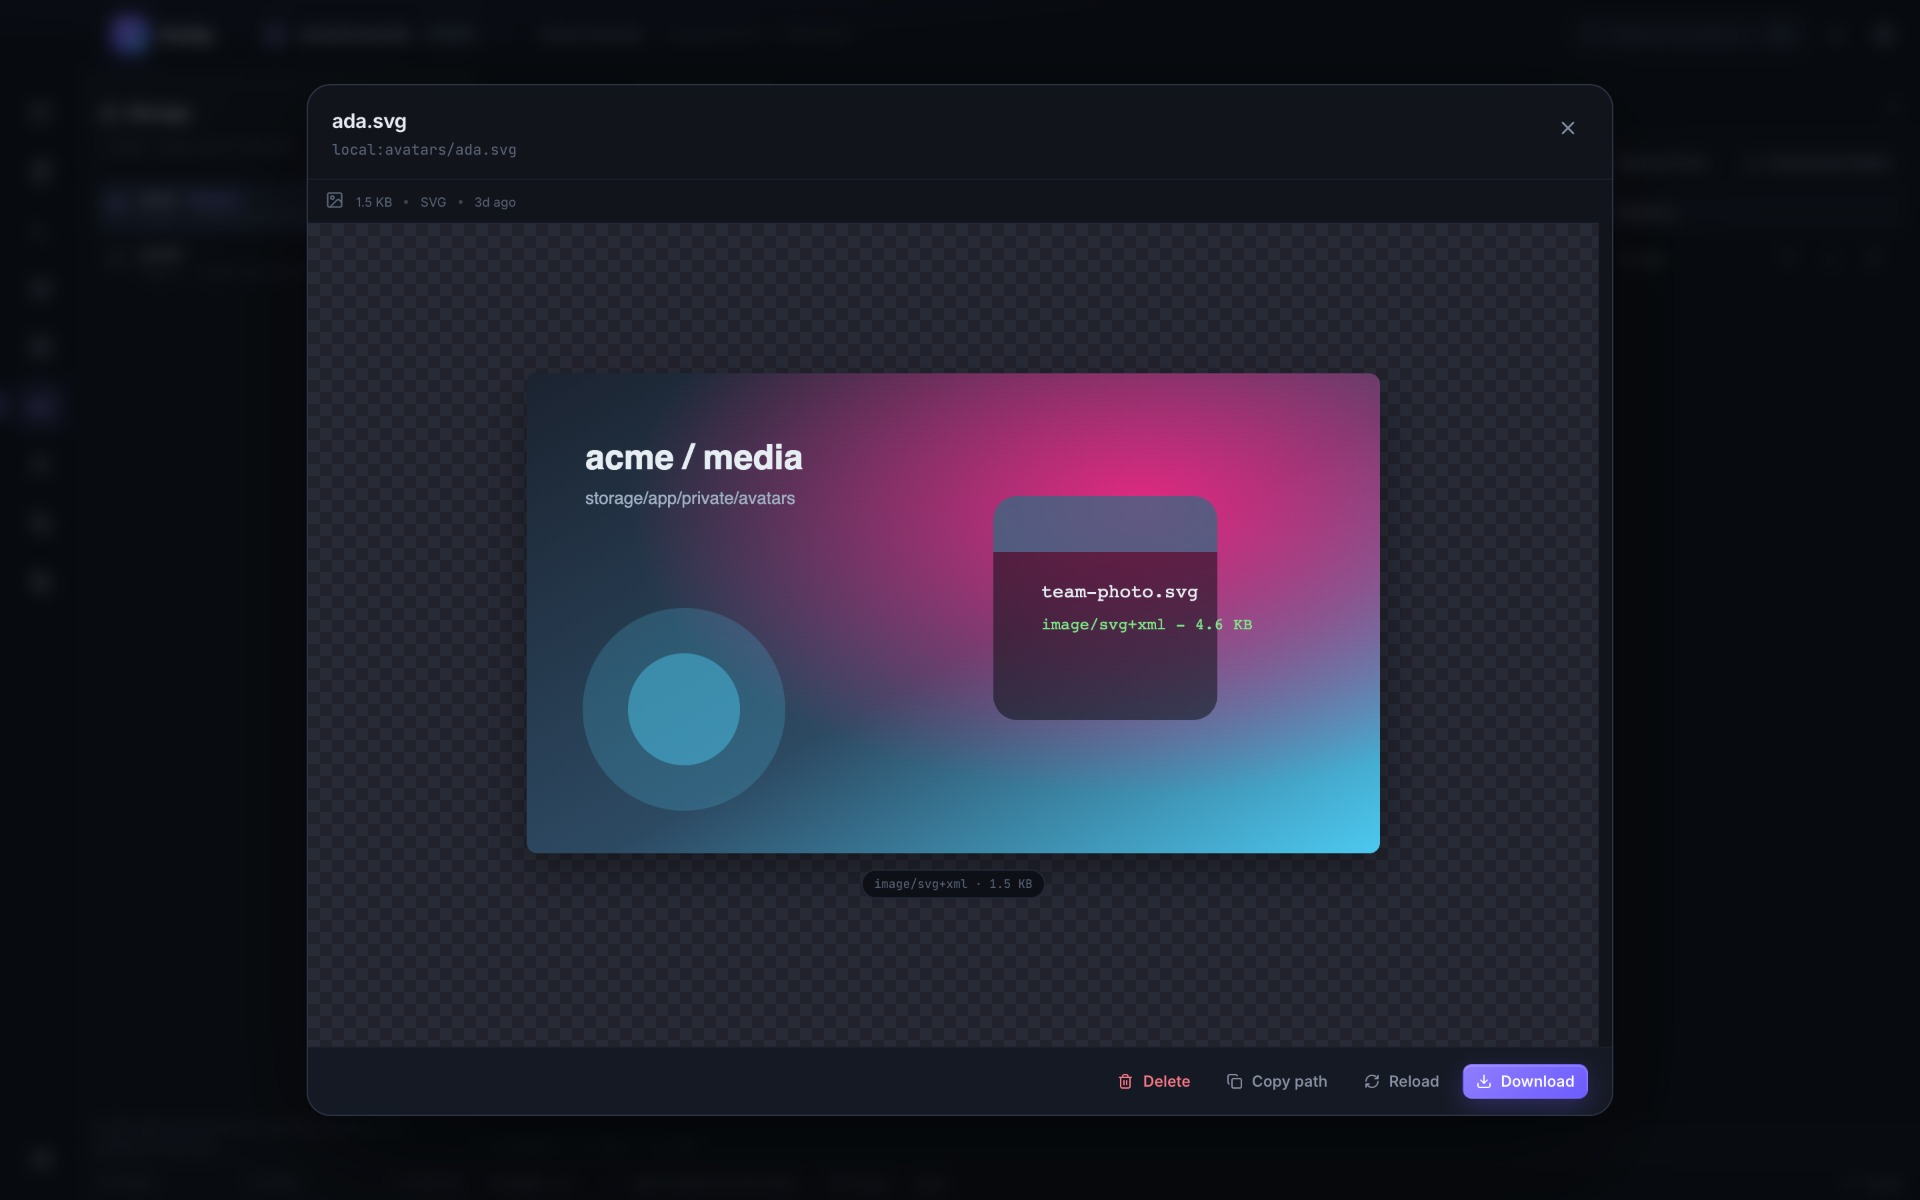
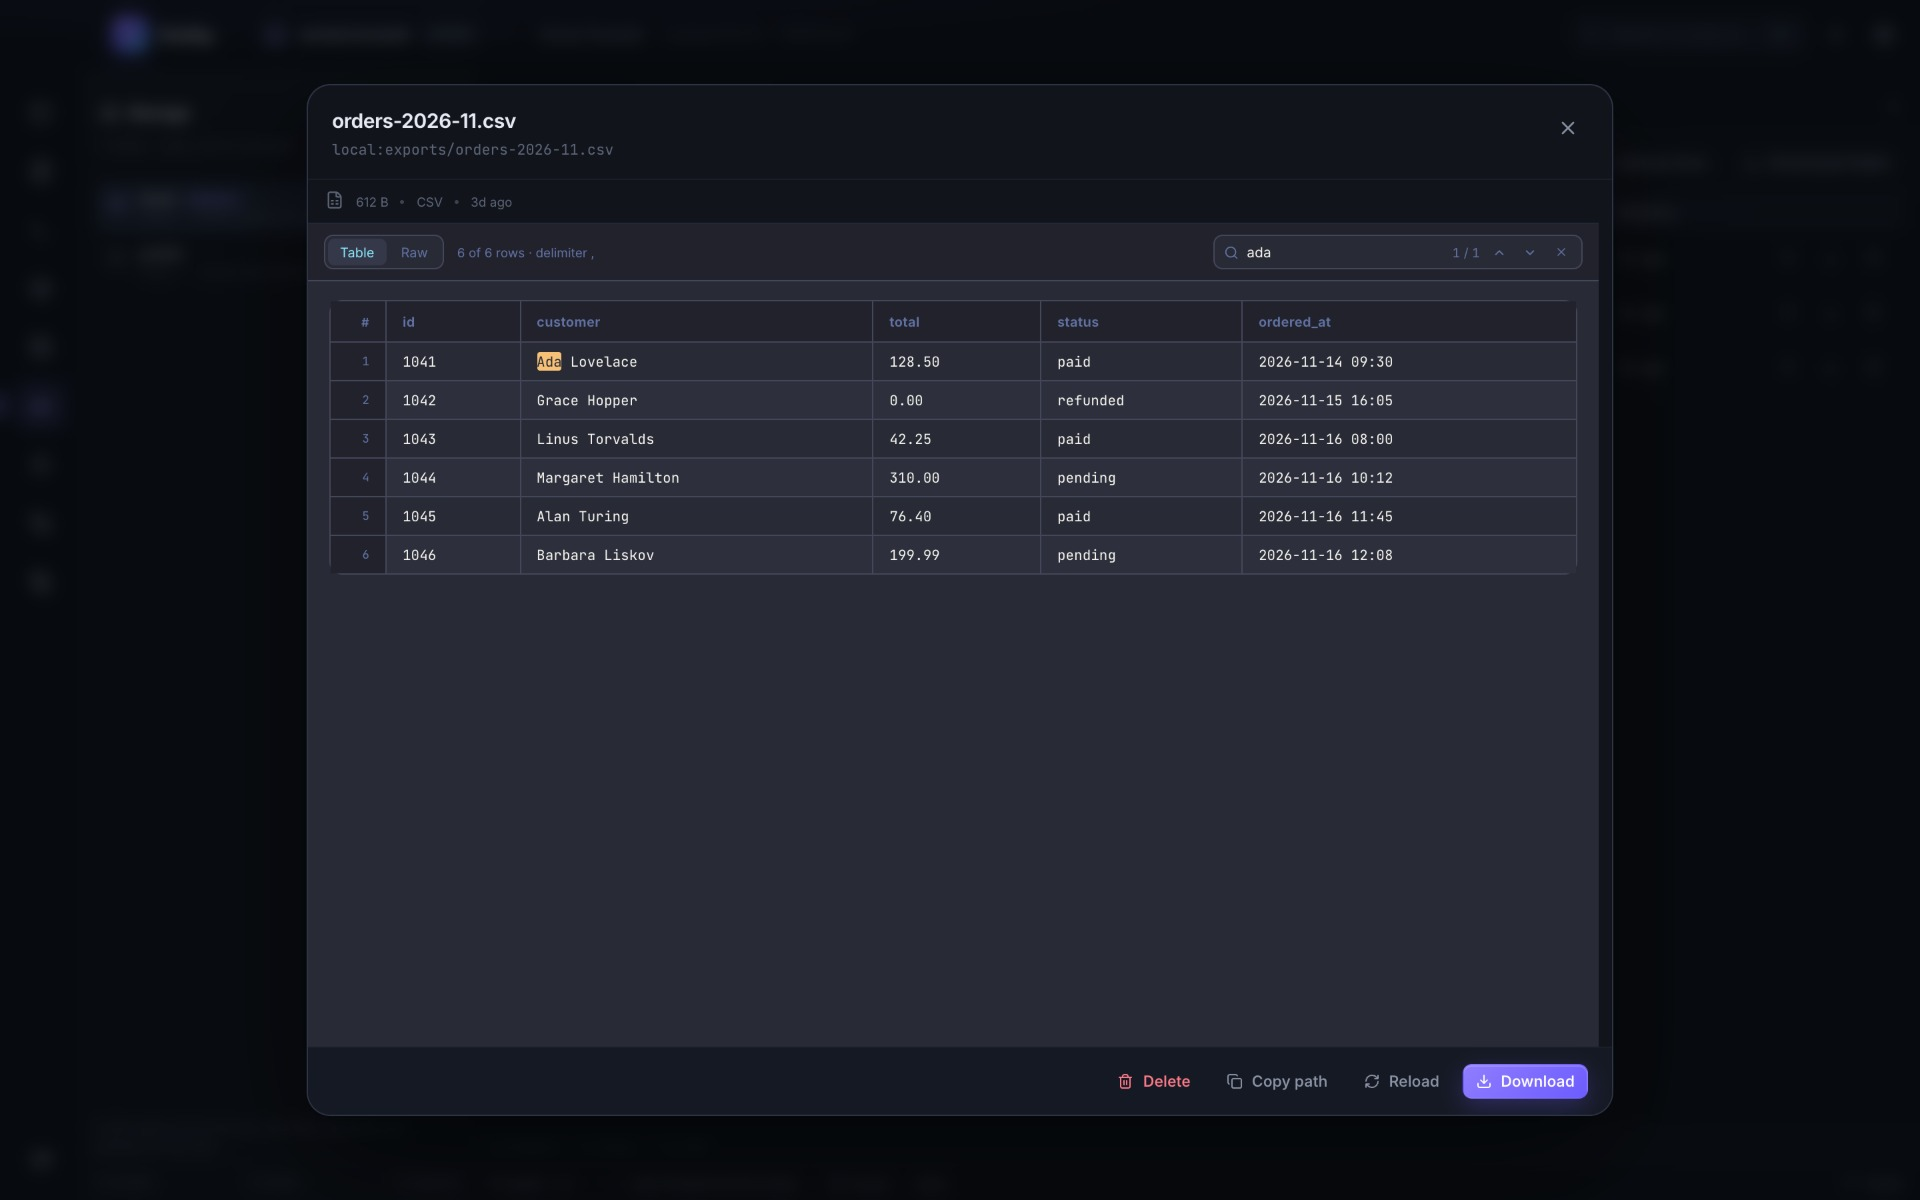
docs: release 0.12.0
Storage previews can be searched: the new find bar shows the match position,
jumps between hits with the arrows (or Enter/Shift+Enter) and highlights every
match in text, JSON, CSV/TSV, Excel and Word previews. CHANGELOG, the feature
list, the site version and the storage screenshot are updated.

diff --git a/site/index.html b/site/index.html
@@ -14,7 +14,7 @@
 
     <link rel="icon" href="favicon.svg" type="image/svg+xml" />
     <link rel="apple-touch-icon" href="apple-touch-icon.png" />
-    <link rel="stylesheet" href="styles.css?v=0.11.0" />
+    <link rel="stylesheet" href="styles.css?v=0.12.0" />
 
     <meta property="og:type" content="website" />
     <meta property="og:site_name" content="Forthy" />
@@ -36,7 +36,7 @@
     />
     <meta name="twitter:image" content="https://stealthpro.github.io/forthy-app/og.jpg" />
 
-    <script src="site.js?v=0.11.0" defer></script>
+    <script src="site.js?v=0.12.0" defer></script>
   </head>
   <body>
     <a class="skip-link" href="#main">Skip to content</a>
@@ -110,7 +110,7 @@
                 href="https://github.com/stealthpro/forthy-app/releases/latest/download/Forthy-macos-aarch64.zip"
               >
                 Download for macOS
-                <span class="button-note">v<span data-version>0.11.0</span> · arm64</span>
+                <span class="button-note">v<span data-version>0.12.0</span> · arm64</span>
               </a>
               <a class="button button-ghost" href="https://github.com/stealthpro/forthy-app">
                 View on GitHub
@@ -412,12 +412,13 @@
               height="1200"
               loading="lazy"
               decoding="async"
-              alt="Image preview in the Storage modal"
+              alt="CSV preview with search in the Storage modal"
             />
             <figcaption>
               Storage opens the application's own disks: a preview stays in a modal with
-              the full path, metadata, reload and download, any folder can be saved as an
-              archive, and deleting a file or a folder asks first.
+              the full path, metadata, reload and download, its find bar reports the match
+              position and jumps between hits, any folder can be saved as an archive, and
+              deleting a file or a folder asks first.
             </figcaption>
           </figure>
         </div>
@@ -492,7 +493,7 @@
               href="https://github.com/stealthpro/forthy-app/releases/latest/download/Forthy-macos-aarch64.zip"
             >
               Download Forthy
-              <span class="button-note">v<span data-version>0.11.0</span> · Apple Silicon</span>
+              <span class="button-note">v<span data-version>0.12.0</span> · Apple Silicon</span>
             </a>
             <p class="fine-print">
               <a href="https://github.com/stealthpro/forthy-app/releases">All releases</a> ·

diff --git a/README.md b/README.md
@@ -36,9 +36,10 @@ shasum -a 256 -c Forthy-macos-aarch64.zip.sha256
 - **Database** — browse tables with a typed filter builder, page through rows and export;
   the connection picker only offers databases that really exist and already hold tables.
 - **Storage** — every disk from `config/filesystems.php`: browse folders in a
-  file-manager tab, preview text, CSV, Excel, Word, PDF and images in place, download any
-  folder as an archive, upload with a destination-first dialog, and delete a file or a
-  whole folder after a confirmation that counts what goes with it. `.gitignore`,
+  file-manager tab, preview text, CSV, Excel, Word, PDF and images in place — with
+  in-preview search over any text-like file, a match counter and arrow navigation —
+  download any folder as an archive, upload with a destination-first dialog, and delete a
+  file or a whole folder after a confirmation that counts what goes with it. `.gitignore`,
   `.env`-style placeholders and Laravel's other system files stay locked.
 - **Workbench** — a connection overview of the real target and runtime. The project
   `.env` opens from the Runtime card in a read-only modal: secret-looking values are
@@ -90,11 +91,12 @@ Every frame comes from the same demo project (`acme`) with fictional paths and d
 ### Files and disks
 
 Storage browses the disks of the running application: previews images, CSV, Excel, Word
-and PDF files in place, downloads any folder as an archive, uploads into the folder you
-pick and deletes files or folders after a counted confirmation. Project system files
+and PDF files in place, finds text inside a preview with a match counter and arrow
+navigation, downloads any folder as an archive, uploads into the folder you pick and
+deletes files or folders after a counted confirmation. Project system files
 (`.gitignore`, `.env*`, `.htaccess` and friends) show a lock instead of a delete action.
 
-![Image preview in the Storage modal](docs/screenshots/storage.jpg)
+![CSV preview with search in the Storage modal](docs/screenshots/storage.jpg)
 
 ### Completions from the running app
 

diff --git a/CHANGELOG.md b/CHANGELOG.md
@@ -1,5 +1,23 @@
 # Changelog
 
+## 0.12.0 — 2026-11-18
+
+Every text-like preview can be searched in place.
+
+- **Find in a preview** — a field in the preview toolbar highlights every match and shows
+  the position (`3 / 27`). The up/down arrows, or `Enter`/`Shift+Enter`, move between
+  matches and wrap around; `⌘F`/`Ctrl+F` focuses the field and × clears the query.
+- **Every text-like format** — plain text and markup (`.txt`, `.md`, `.yaml`, `.xml`,
+  `.log`, …), pretty-printed JSON with its token colours intact, CSV/TSV in both Table and
+  Raw views, each sheet of an Excel workbook, and Word `.docx` documents. PDFs, images and
+  binaries have no find bar.
+- **The count follows the view** — Table counts cells while Raw counts the raw document;
+  Excel counts the active sheet. Switching views keeps the query and re-counts the hits.
+- **Bounded** — matching is literal and case-insensitive, and a very common query stops at
+  the first 2,000 matches (`2,000+`) so a 1 MB preview cannot freeze the window.
+- The active match scrolls into view and is drawn solid; the other hits keep a softer
+  highlight, and JSON token colours survive the highlight.
+
 ## 0.11.0 — 2026-11-17
 
 Storage can delete, and the Workbench shows the project's `.env` without turning it into
